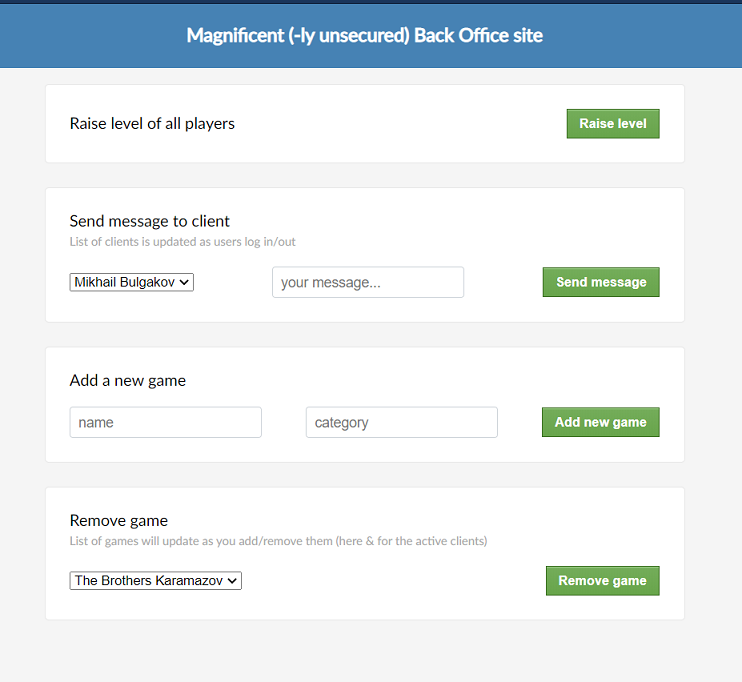
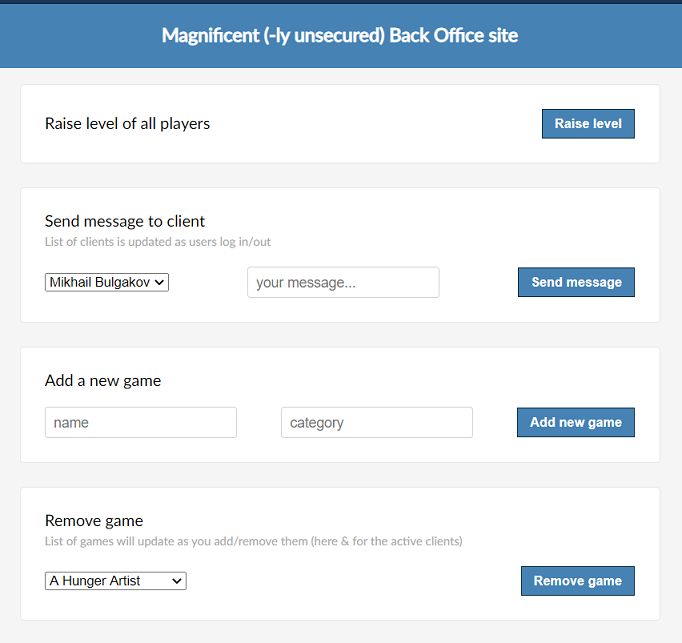
some final revisions

diff --git a/client/src/components/message-list/message-list.tsx b/client/src/components/message-list/message-list.tsx
@@ -5,7 +5,7 @@ interface Props {
   messages: Message[]
 }
 
-interface Message {
+export interface Message {
   id: string,
   text: string,
   read: boolean,
@@ -19,8 +19,8 @@ const Messages: FunctionComponent<Props> = ({ messages }) => {
     <div className="messages-list">
       <p className="messages-list__count">Messages ({messages.length})</p>
       {
-        messages.sort(sortByDate).map(({ id, ...rest }) => (
-          <MessageListItem key={id} {...rest} />
+        messages.sort(sortByDate).map((message) => (
+          <MessageListItem key={message.id} {...message} />
         ))
       }
     </div>

diff --git a/server/public/css/styles.css b/server/public/css/styles.css
@@ -70,10 +70,8 @@ input {
 }
 
 .btn {
-	box-shadow:inset 0px 1px 0px 0px #9acc85;
-	background:linear-gradient(to bottom, #74ad5a 5%, #68a54b 100%);
-	background-color:#74ad5a;
-	border:1px solid #3b6e22;
+	background-color: steelblue;
+	border:1px solid #0c2c3b;
 	display:inline-block;
 	cursor:pointer;
 	color:#ffffff;
@@ -82,11 +80,6 @@ input {
 	font-weight:bold;
 	padding:6px 12px;
 	text-decoration:none;
-}
-
-.btn:hover {
-	background:linear-gradient(to bottom, #68a54b 5%, #74ad5a 100%);
-	background-color:#68a54b;
 }
 
 .btn:active {

diff --git a/client/src/components/message-list-item.tsx b/client/src/components/message-list-item.tsx
@@ -2,8 +2,9 @@ import React from 'react';
 import { Card } from 'antd';
 import moment from 'moment';
 import classNames from 'classnames';
+import { Message } from '../components/message-list/message-list';
 
-const MessageListItem = ({ text, read, date }) => {
+const MessageListItem = ({ text, read, date }: Message) => {
   const messagesClasses = classNames('messages-list-item', {
     'messages-list-item--read': read
   });

diff --git a/client/src/components/game-list-item.tsx b/client/src/components/game-list-item.tsx
@@ -1,7 +1,8 @@
 import React from 'react';
 import { Card, Button } from 'antd';
+import { Game } from '../components/game-list/game-list';
 
-const GameListItem = ({ name }) => (
+const GameListItem = ({ name }: Game) => (
   <Card>
     <div className="game-list-item__card-content">
       <small>{name}</small>

diff --git a/client/src/components/game-list/game-list.tsx b/client/src/components/game-list/game-list.tsx
@@ -7,7 +7,7 @@ interface Props {
   games: Game[]
 }
 
-interface Game {
+export interface Game {
   id: number,
   name: string,
   category: string

diff --git a/README.md b/README.md
@@ -34,7 +34,36 @@ fixtures data located here -> ./server/src/db/fixtures.mjs
 ```
 
 ### Assumptions
-...
+
+**DB**
+
+Although a db is not specifically requested, it is nonetheless, given the nature of the task, required for some form of storage to exist. For instance, we need to keep track of old messages/events belonging to certain users. It is equally important to gather a prefixed list of games currently available to play, not only for the user to view but also for the admin to remove. Because of this, and due to the existing time contraint, I've opted for a 'mock' db directly in the code, consisting of essentially 3 tables: games, messages and users.
+
+**Authentication**
+
+As mentioned above, a collection of old messages/events (as well as level progression among other things) are required in this application. The aforementioned data is retrieved immediately upon successful login. In this case I've opted for json web tokens. A secret is defined in the env variables to ensure security and (in the case of actual release) can be defined with the hosting company, for example Heroku. Although needless but following good practice, I make sure to hash the passwords before storing them in the 'mock' db.
+
+Note the token is currently stored in the state, meaning the user is automatically logged out upon refresh of the page/application. I've not focused particularly much on this issue but a possible solution would be to use localStorage or better yet a server-side cookie.
+
+If the server ever returns a 401 (unauthorized) a check in the router setup immediately prompts a redirect to the login page.
+
+**Styling**
+
+Styling is part Ant Design and part custom CSS. The styling in the application adheres to mobile first principles.
+
+**API + Web sockets**
+
+I've concluded that the best approach to handling data in the application is to use both API requests as well as web sockets. For instance, upon successful login, the user fetches initial data while a connection is established (from which real-time data is sent back/forth).
+
+Whenever a client successfully logs in, the socket id is stored in the 'mock' db. This permits transmission of messages directly to the client. Upon signing out the socket id is purged from the client's record.
+
+**Time constraint**
+
+Unfortunately I've had to omit unit testing altogether as well as having taken some liberties with TypeScript. In case I would have managed I would have opted for Jest + React-testing-library as well as configure Eslint for even better code management.
+
+**Minute details**
+
+To the observant, you'll notice minute details such as no error message rendered when inserting the wrong email/password combination. Of course such bugs are, in due time, expunged, but, for now they stand, like thorns mockingly pricking at the skin. 
 
 ### Screenshots
 
